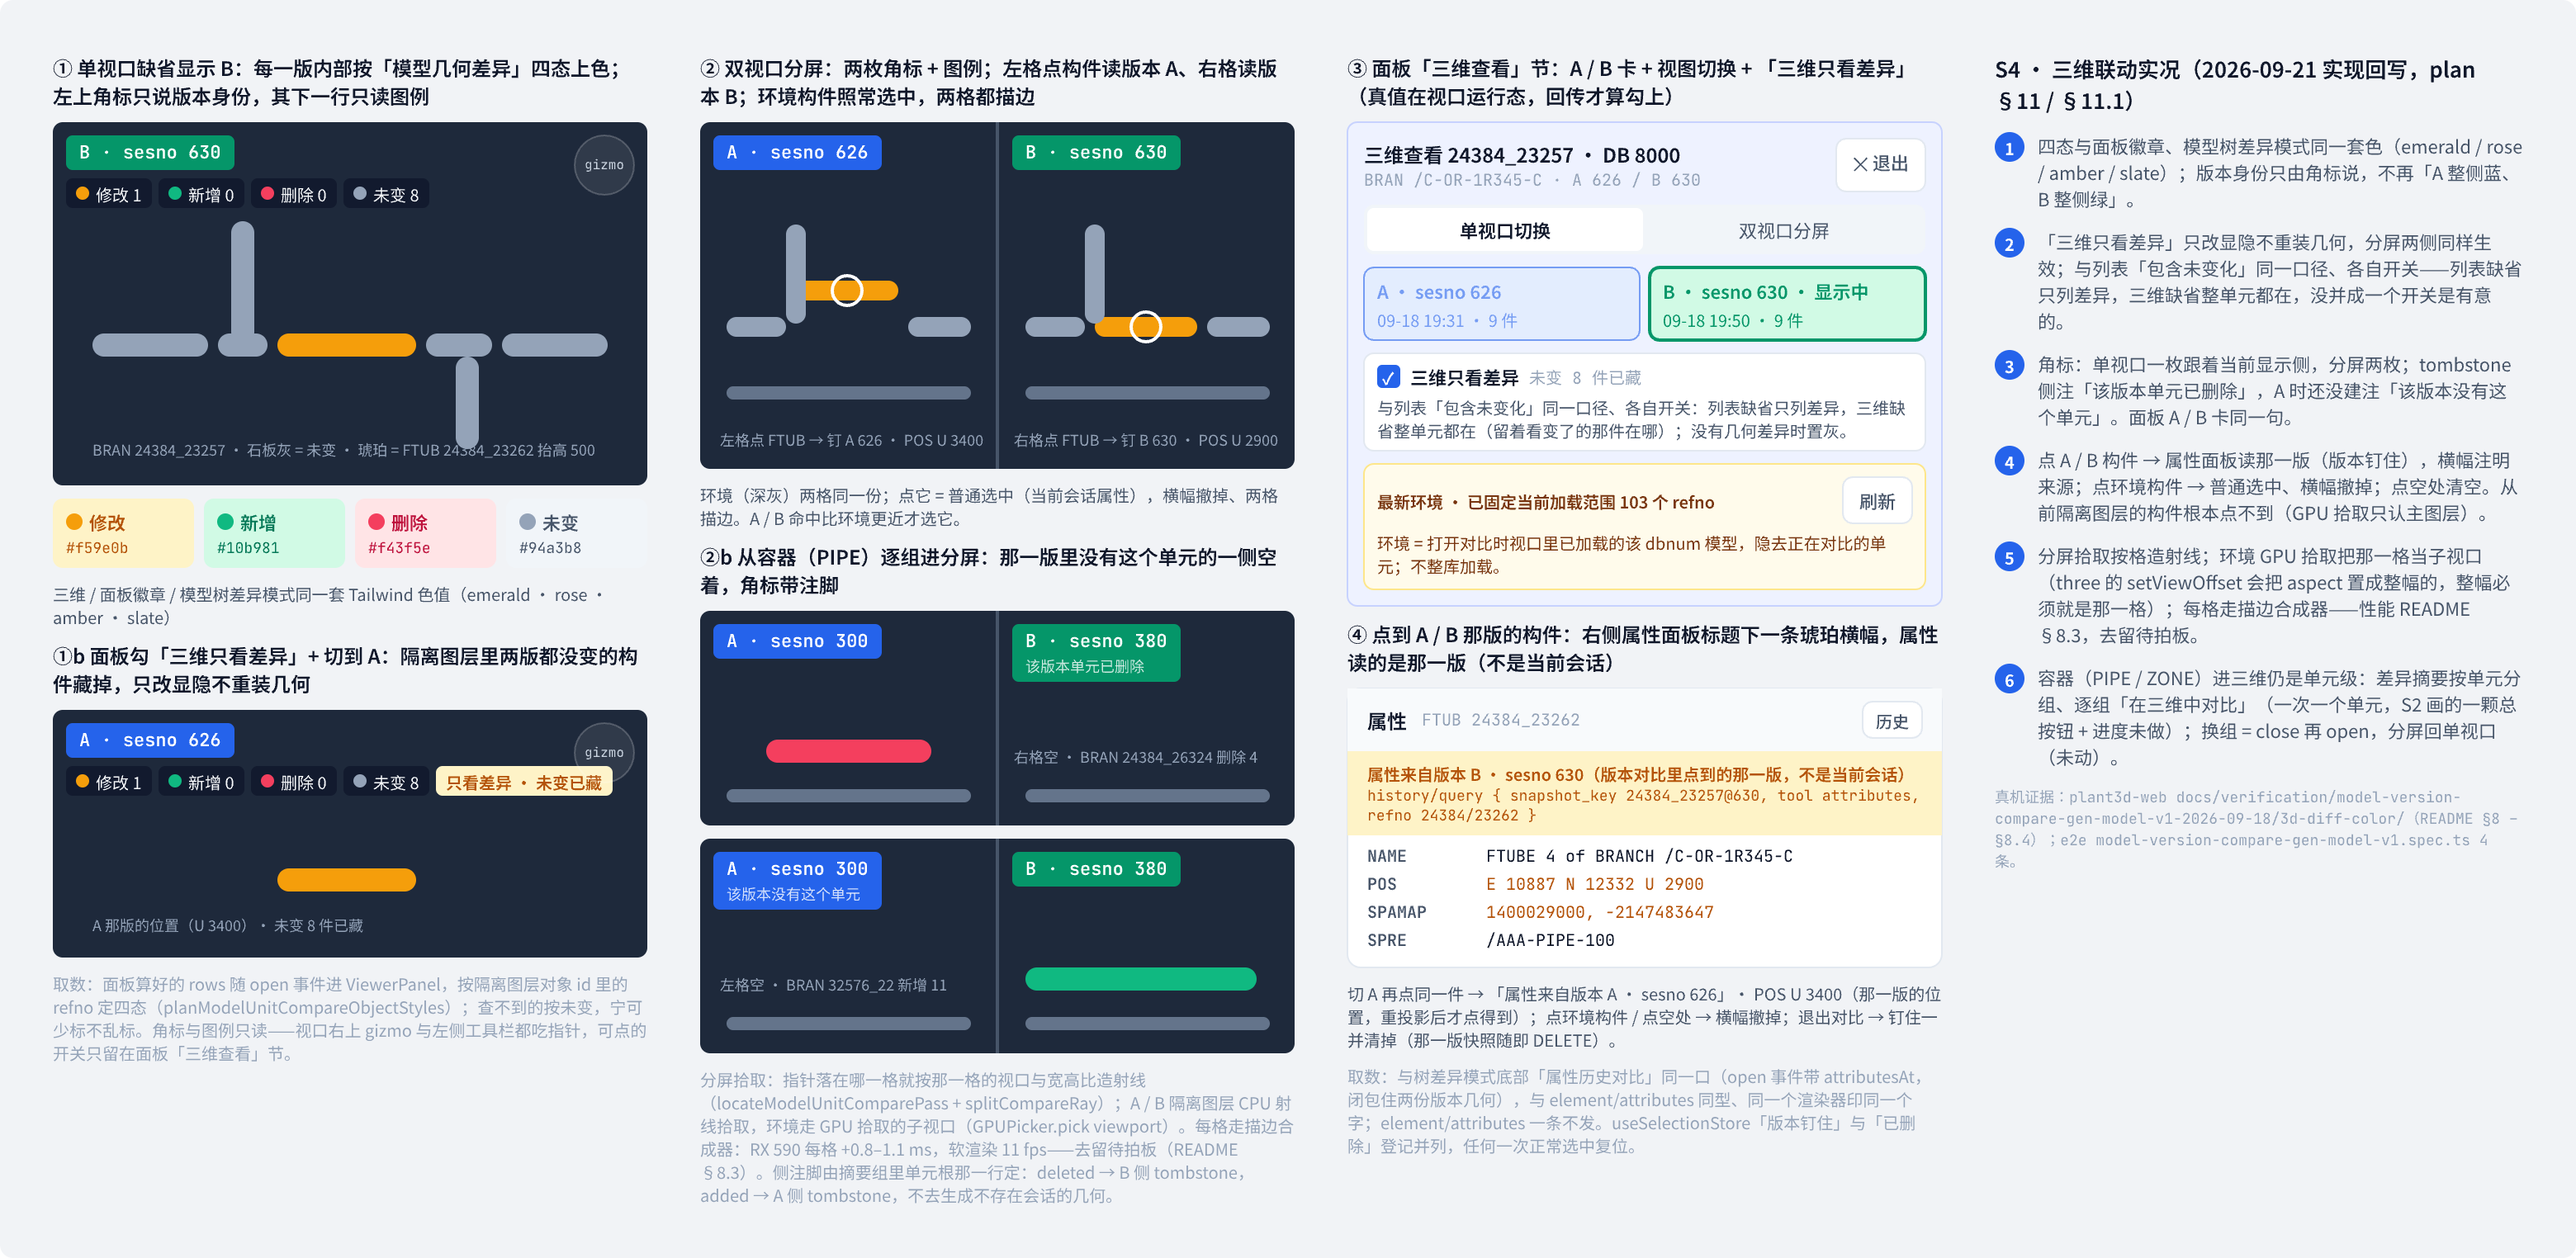
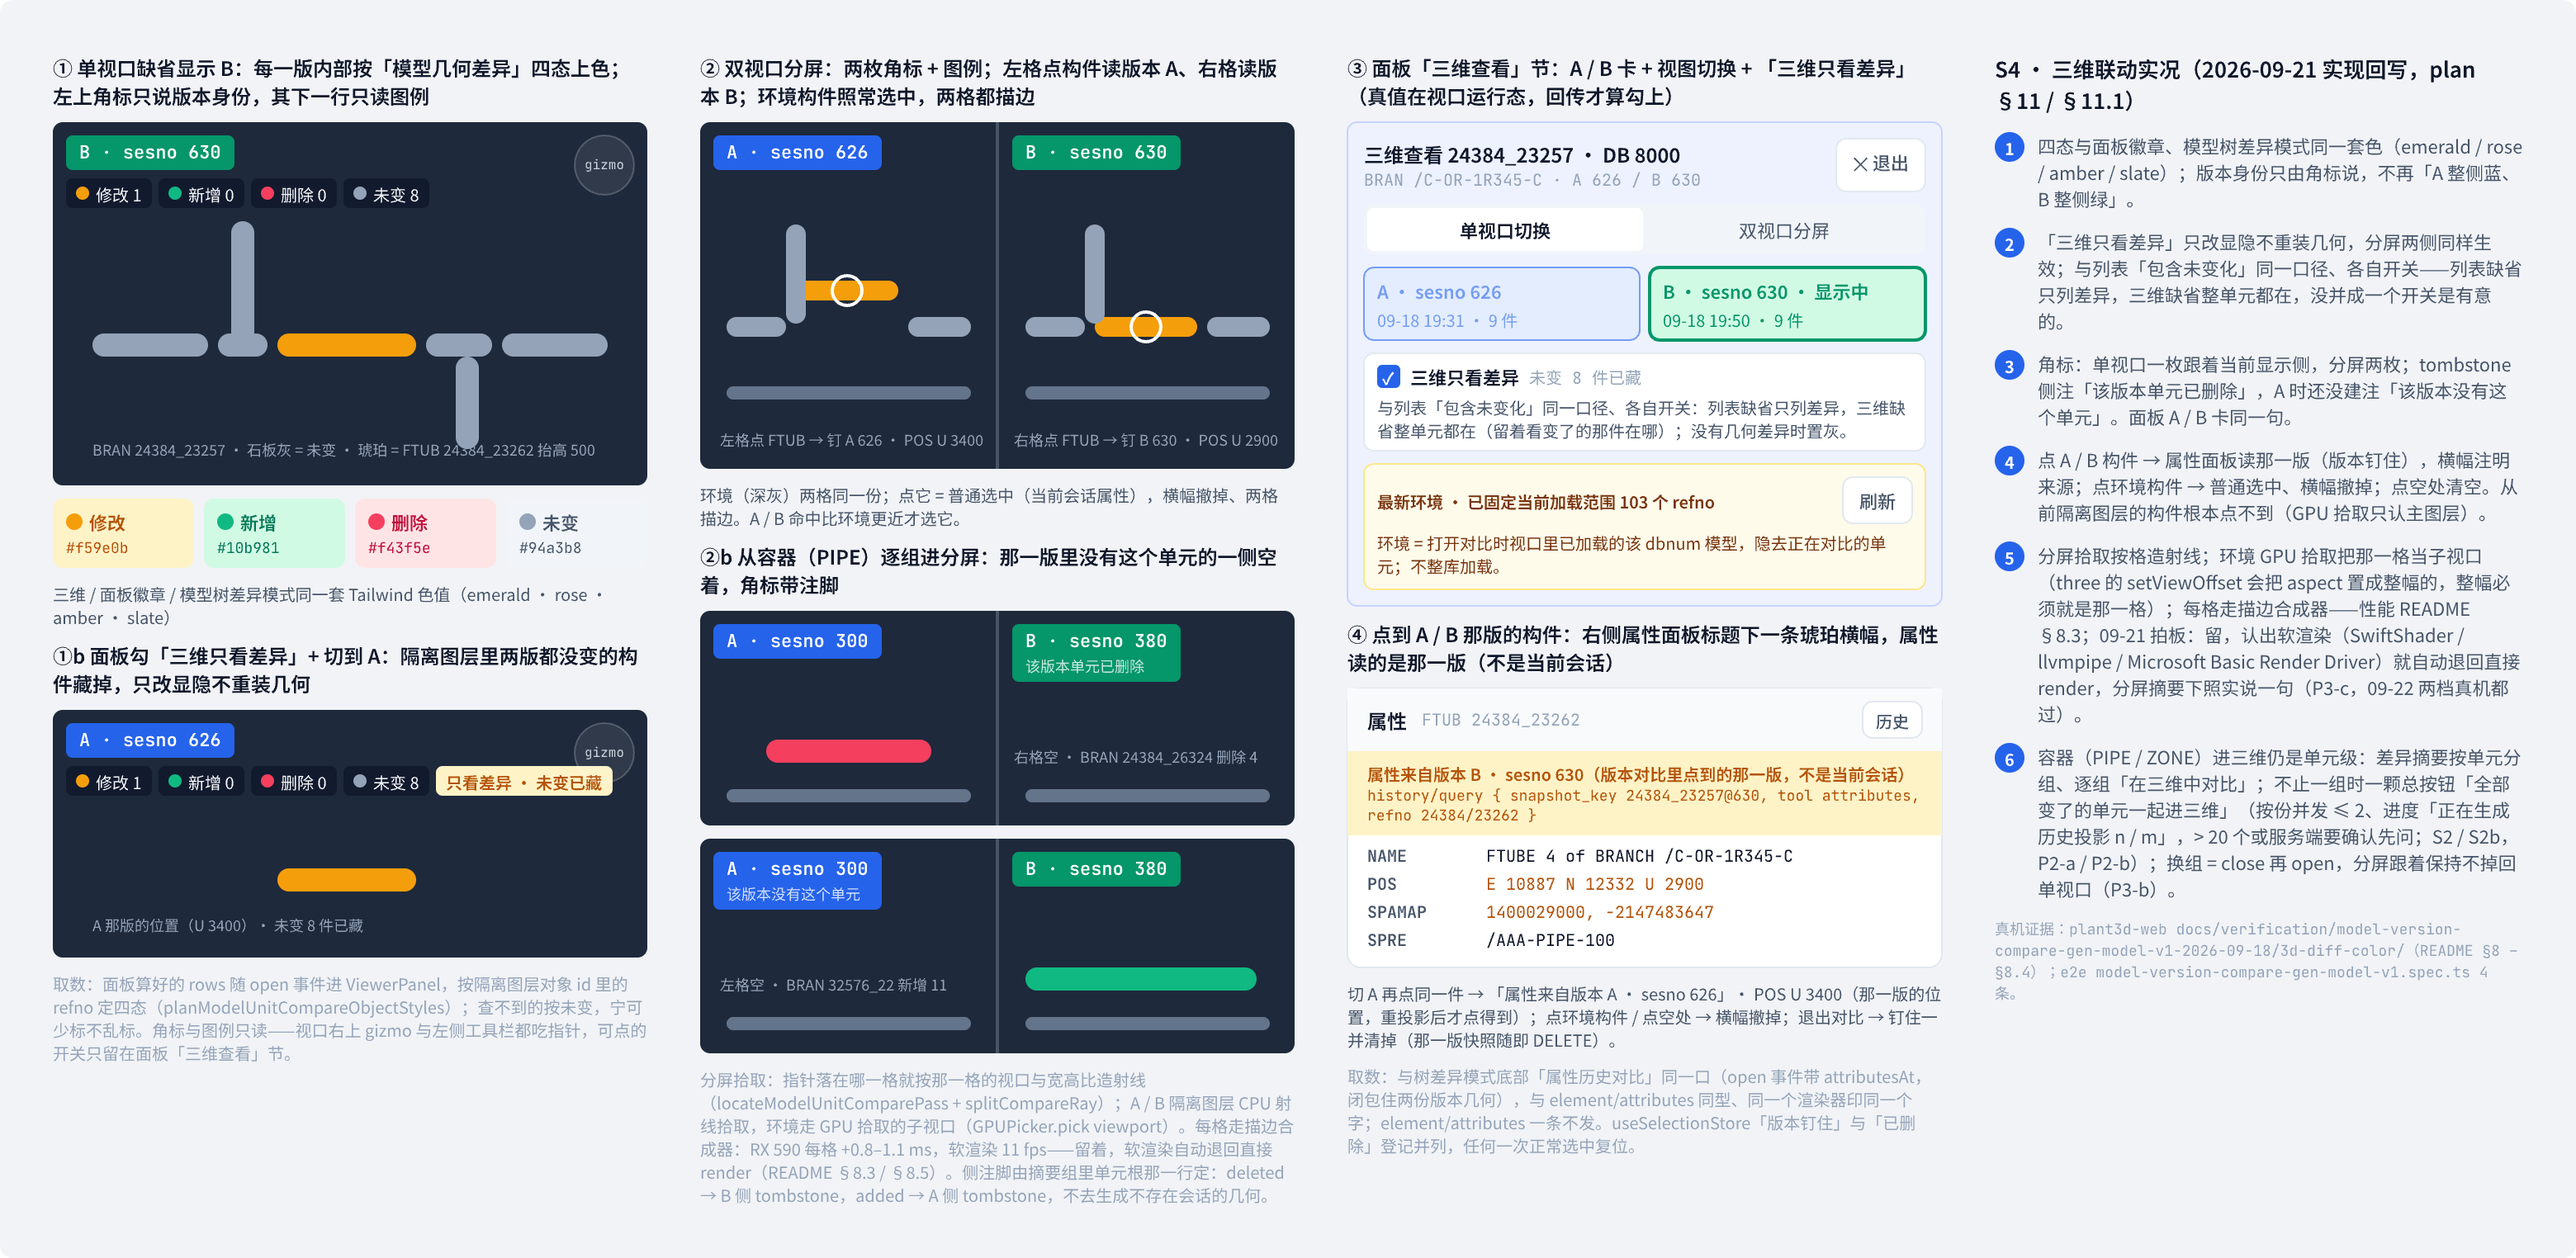
docs(design): 节点版本视图设计稿 S4 注 5 / 注 6 改口并重导——注 5「去留待拍板」→「留，认出软渲染就自动退回直接 render（P3-c）」、注 6「一次一个单元 / 分屏回单视口（未动）」→ 总按钮 + 进度 + 阈值确认（P2-a / P2-b）、换组分屏保持（P3-b），分屏 Footnote 同步；只重导 S4 一帧（plant-10/design/node-version-history.pen 15:57 存盘）；收口计划 §3 / §8 / 状态行、README §8.5、CHANGELOG 追记——09-21 收口计划全部收完

Changed region(s): [[0.7772, 0.4934, 0.9949, 0.7093], [0.2798, 0.8944, 0.4974, 0.956], [0.7772, 0.7402, 0.9638, 0.771]]

diff --git a/docs/plans/2026-09-21-node-version-view-design-sync-and-gap-closure-plan.md b/docs/plans/2026-09-21-node-version-view-design-sync-and-gap-closure-plan.md
@@ -8,7 +8,8 @@
 > 九帧导出 `docs/plans/2026-09-18-node-version-view-design/`（S0–S3 / F1 / F2 重导后字节数与 09-18 22:18 那批逐一相同 = 定稿帧确实没动）。
 > 前端基线：plant3d-web `main@0bc598e1`（PR #79 已合）+ 工作树未提交改动（§1.3）；后端 gen-model-refactor `0b2bf527b` + 未提交 `src/fast_model/attribute_diff.rs`。
 >
-> 状态：用户 16:3x 拍板 **「D1–D6 全按推荐，直接从 P0 开干」**；**P0 / P1 / P3-a / P3-b / P3-c / P2-a / P2-b 全部完成**（§8 执行记录），只剩 **P2-c**（等后端 `attribute_diff.rs` 提交）与设计稿 S4 注 5 / 注 6 改口（等 .pen 被打开）。
+> 状态：用户 16:3x 拍板 **「D1–D6 全按推荐，直接从 P0 开干」**；**P0 / P1 / P3-a / P3-b / P3-c / P2-a / P2-b 全部完成**（§8 执行记录），~~只剩 **P2-c**（等后端 `attribute_diff.rs` 提交）与设计稿 S4 注 5 / 注 6 改口（等 .pen 被打开）~~
+> **09-22 全部收完**：十笔真机 / e2e 补齐（三档显卡）、P2-c 真机（`:8022` 换成后端工作树构建）、S4 注 5 / 注 6 改口 + 重导——见 §8 末三节。后端 `attribute_diff.rs` 那半仍由另一条会话提交。
 
 ## 0. 一句话
 
@@ -107,6 +108,9 @@
 - S4 / S5 已按 09-21 实现回写（本轮）。S0–S3 / F1 / F2 不动。
 - P1-a / P1-b / P2-a / P2-b 做完 = 实现追上设计稿，**设计稿不用改**；P1-c 选 (b) 同样不用改。
 - P3-a / P3-b 做完改 S4 注 6 那句「换组 = close 再 open，分屏回单视口（未动）」；P3-c 拍板后改 S4 注 5 末句「去留待拍板」。
+  **✅ 09-22 15:5x 改口**（`plant-10/design/node-version-history.pen` 15:57 存盘）：注 5 末句 → 「09-21 拍板：留，认出软渲染（SwiftShader / llvmpipe / Microsoft Basic Render Driver）就自动退回直接 render，分屏摘要下照实说一句（P3-c，09-22 两档真机都过）」；
+  注 6 → 「不止一组时一颗总按钮『全部变了的单元一起进三维』（按份并发 ≤ 2、进度『正在生成历史投影 n / m』，> 20 个或服务端要确认先问；S2 / S2b，P2-a / P2-b）；换组 = close 再 open，分屏跟着保持不掉回单视口（P3-b）」；
+  分屏那格的 Footnote 里「去留待拍板（README §8.3）」同步改「留着，软渲染自动退回直接 render（README §8.3 / §8.5）」。Notes 列 576 高、没有裁切；只重导了 S4 一帧（`S4-3d-linkage-live.png` 3120×1524），其余八帧一字未动不重导。
 - 每次改 .pen 后重导九帧到 `docs/plans/2026-09-18-node-version-view-design/`（导出名按帧：`S4-3d-linkage-live.png` / `S5-tree-diff-mode.png`）。
 
 ## 4. 验证口径（每项都要）
@@ -264,3 +268,7 @@ P0（半天）→ P1-a / P1-b（半天）→ P3-a / P3-b（半天）→ P1-c（D
 - **§2 P2-c 写的「BRAN 24384_23257 应出『成员重排』」不成立**：attribute-history 里它在 (573, 628] 只有 626 一条（CACHID / noop / 无 members），服务端真差也没 members，两条路由一致——是计划把段写错了；EQUI 24776 那条成立（时间线 +26484 / −26484 / +26495 三跳，净差 +26495 一条，正是「净差 vs 折」的差别）。
 - e2e：叶子那条净差来路按服务端有无路由断言 `server` / `folded` + 戳缺省不列；**新第四条**（没路由就跳过）逐行拿 `element/attribute-diff`、挑成员 / owner 有差的点开断言。两份 spec 对这台 **8 passed（31.6 s）**，pageerror 0。
 - 后端一提交 / 一改，这台 `.dirty` 就过时了；换正式构建按 README §5.5 那行重起。
+
+### 设计稿 S4 注 5 / 注 6 改口（2026-09-22 15:5x）
+
+Pencil MCP 只认编辑器里打开着的 .pen，`cursor --reuse-window` 把 `plant-10/design/node-version-history.pen` 开进当前窗口后按 §3 改了三处文字（注 5 / 注 6 / 分屏 Footnote），`Get` 核过 Notes 列无 `problems`、截图无裁切；Ctrl+S 存盘（15:57:14，587,225 B；plant-10 不是 git 仓）；`Export` 只导 S4 一帧覆盖 `S4-3d-linkage-live.png`。**收口计划到此全部收完**：P0 / P1 / P2 / P3 十笔真机 + e2e、P2-c 真机、设计稿回写。

diff --git a/CHANGELOG.md b/CHANGELOG.md
@@ -9,6 +9,7 @@
   - `playwright.config.ts` 新认 `PLAYWRIGHT_GPU=1`（ANGLE → D3D11）/ `PLAYWRIGHT_SOFTWARE_GL=1`（ANGLE → SwiftShader）两个开关进 `launchOptions.args`；不给就是从前的行为。本机 Chrome 新 headless 缺省就拿到真显卡，要看软渲染那条路得显式开后者。
   - 验证：dev `:3111` + `:8022`（`0.1.27+ga382b2cf3`，内存库）三档各一遍——Chrome 缺省 **7 passed 28.9 s**、`PLAYWRIGHT_GPU=1` **7 passed 28.9 s**（`compositor true`，RX590）、`PLAYWRIGHT_SOFTWARE_GL=1` **7 passed 29.0 s**（`compositor false`，那一句带 SwiftShader 串）；pageerror 0；ESLint 三文件 0。图与账 `docs/verification/model-version-compare-gen-model-v1-2026-09-18/closeout-0922/`，README §8.3 追记 / §8.5；收口计划 §8 末追记。教程 `MODEL_VERSION_VIEW_TUTORIAL.md` 嵌 10 张真机图（`docs/guides/images/model-version-view/`）。仍欠：~~P2-c 成员 / owner 真差（后端 `attribute_diff.rs` 未提交）~~（下一条）、设计稿 S4 注 5 / 注 6 改口。
   - **P2-c 也收了（15:3x–15:4x，用户拍板拿后端工作树编一份换到 `:8022`）**：`element/attribute-diff` 真机——叶子净差表 `data-source=server`、表底「取数：服务端 element/attribute-diff…」、这版服务端把 `SPAMAP` 标成戳（缺省不列、勾「含戳」才出）；容器子树 573 → 628 点开 EQUI 24384_24776「成员 新增 1（24384_26495）」、ZONE 24384_24775「属性一字没差，只有成员表 / owner 动了」+「成员 新增 1」，不再有「折出来的」那句。e2e：叶子那条按服务端有无路由断言 `server` / `folded` + 戳缺省不列；**新第四条**（没路由就跳过）逐行拿真差、挑成员 / owner 有差的点开断言。两份 spec 对这台 **8 passed 31.6 s**。计划里「BRAN 24384_23257 应出『成员重排』」不成立（两条路由都说 (573, 628] 没动成员，是计划写错了段）。后端那半仍未提交，`:8022` 现在是它工作树的 `.dirty` 快照（README §5.5）。
+  - **设计稿 S4 注 5 / 注 6 也改口了（15:5x）**：`plant-10/design/node-version-history.pen` 注 5「去留待拍板」→「留，软渲染自动退回直接 render（P3-c）」、注 6「一次一个单元 / 分屏回单视口（未动）」→ 总按钮 + 进度 + 阈值确认（P2-a / P2-b）、换组分屏保持（P3-b），分屏 Footnote 同步；只重导 S4 一帧 `docs/plans/2026-09-18-node-version-view-design/S4-3d-linkage-live.png`。09-21 收口计划至此全部收完。
 
 - **左侧工具栏「测量」下拉菜单在矮查看器里按剩余空间向上翻，不再被容器底边裁掉「管-墙/柱」「管-管」** (2026-09-22，issue [#81](https://github.com/happyrust/plant3d-web/issues/81)，#80 验收时顺手发现)
   - 菜单原来固定 `absolute left-full top-0` 从按钮顶往下开；工具栏 `top-1/2` 居中后「测量」按钮落在容器下半部，7 项 ≈ 217 px 的菜单在 416 px 高的容器里 `按钮顶 330 + 217 > 容器底 499`，末两项只露半行、点不到。它挂在按钮的 `.relative` 包裹里，百分比 `max-h` 只能相对那 36 px 解析，#80 那套「按容器算 `max-h`」对它无效。

diff --git a/docs/verification/model-version-compare-gen-model-v1-2026-09-18/README.md b/docs/verification/model-version-compare-gen-model-v1-2026-09-18/README.md
@@ -363,5 +363,5 @@ pageerror 0；console error 6 条 = 从前那 5 条环境噪音 + 1 条 404 = `G
 - **三档各跑一遍，全绿**（`e2e-summary.json`）：Chrome 缺省 headless **7 passed 28.9 s**；`PLAYWRIGHT_GPU=1` **7 passed 28.9 s**；`PLAYWRIGHT_SOFTWARE_GL=1` **7 passed 29.0 s**。pageerror 三档都是 0。
   `playwright.config.ts` 新认 `PLAYWRIGHT_GPU` / `PLAYWRIGHT_SOFTWARE_GL` 两个开关（`launchOptions.args`），别的 spec 不给就是从前的行为。
 - **教程配图**：`docs/guides/images/model-version-view/01…10`（同一台 `:8022`，1600×1000，真显卡；`10-split-direct-render-note.png` 是 SwiftShader 档），`MODEL_VERSION_VIEW_TUTORIAL.md` 各节嵌入。
-- **仍未验**：~~P2-c 成员 / owner 真差（后端 `attribute_diff.rs` 仍 untracked 在 gen-model-refactor 工作树里，`:8022` 这版没有 `element/attribute-diff`，容器「仅自身」缺省对 524 → 532 那条 404 照旧是预期的探路）~~ **15:3x 拿后端工作树编了一份换到 `:8022`，P2-c 真机 + e2e 见 §5.5**；设计稿 S4 注 5 / 注 6 改口（Pencil 里现在没有打开任何 .pen）。
+- **仍未验**：~~P2-c 成员 / owner 真差（后端 `attribute_diff.rs` 仍 untracked 在 gen-model-refactor 工作树里，`:8022` 这版没有 `element/attribute-diff`，容器「仅自身」缺省对 524 → 532 那条 404 照旧是预期的探路）~~ **15:3x 拿后端工作树编了一份换到 `:8022`，P2-c 真机 + e2e 见 §5.5**；~~设计稿 S4 注 5 / 注 6 改口（Pencil 里现在没有打开任何 .pen）~~ **15:5x 已改口并重导 `S4-3d-linkage-live.png`**（收口计划 §3 / §8 末）。
 - 前端是**工作树**（HEAD `151290c1` + 别的会话未提交的空间查询 / 校审改动），不是干净 HEAD；那些改动不碰版本对比这条线的文件。
